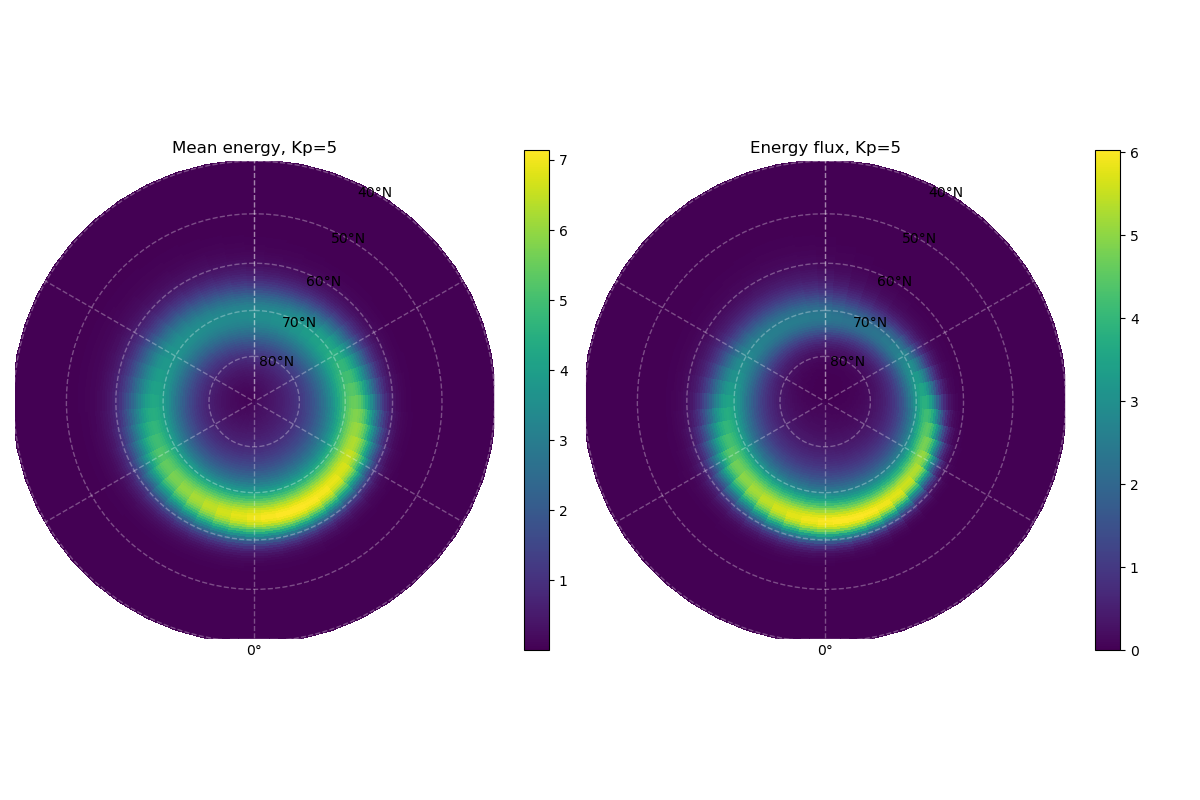
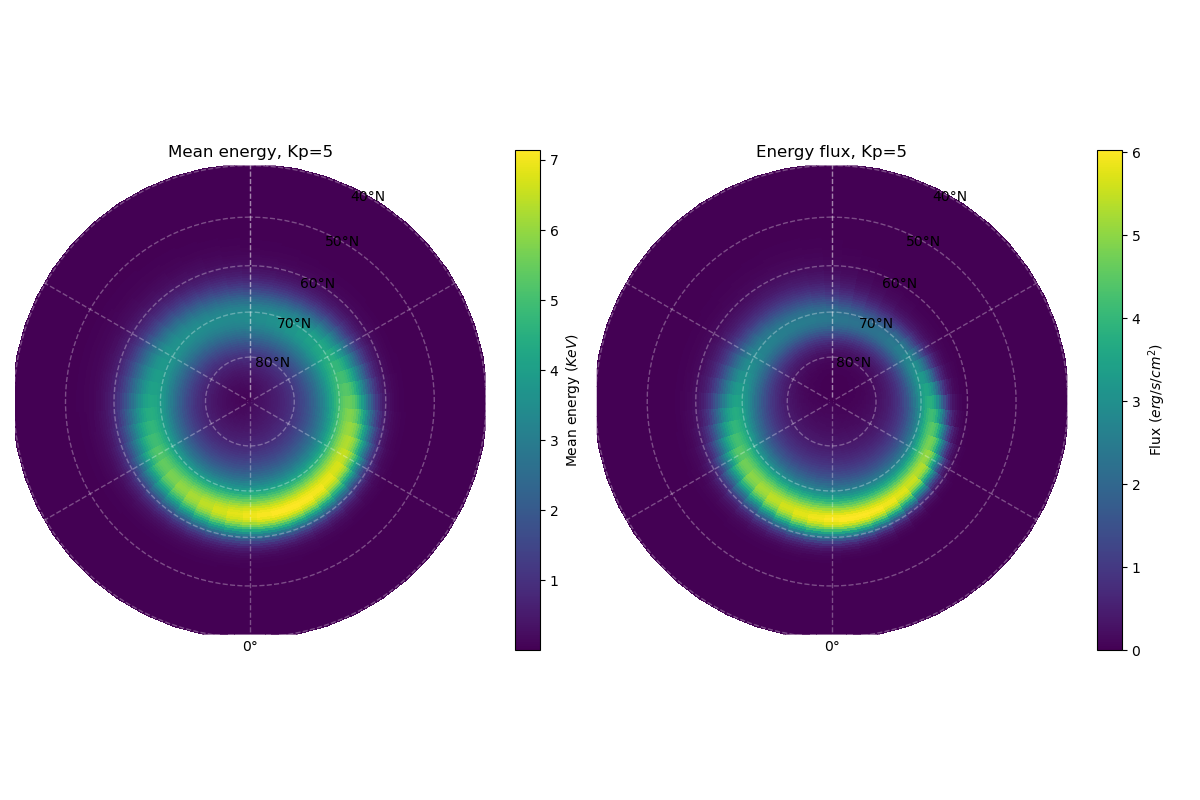
updated

diff --git a/ZhangPaxtonModel.py b/ZhangPaxtonModel.py
@@ -168,7 +168,7 @@ def plot_kp(kp, savefig=False):
     gl.right_labels = gl.left_labels = gl.top_labels = False
     ax1.axis('off')
     plt.tight_layout()
-    fig.colorbar(cs1, shrink=0.65)
+    fig.colorbar(cs1, shrink=0.65, label=r'Mean energy ($KeV$)')
     ax1.set_title('Mean energy, '+'Kp='+str(kp))
 
     ax2 = fig.add_subplot(122, projection=ccrs.NorthPolarStereo())
@@ -179,7 +179,7 @@ def plot_kp(kp, savefig=False):
     gl.right_labels = gl.left_labels = gl.top_labels = False
     ax2.axis('off')
     plt.tight_layout()
-    fig.colorbar(cs2, shrink=0.65)
+    fig.colorbar(cs2, shrink=0.65, label=r'Flux ($erg/s/cm^{2}$)')
     ax2.set_title('Energy flux, '+'Kp='+str(kp))
     if savefig == True:
         plt.savefig('ZhangPaxtonModel_KP'+str(kp)+'.png')
